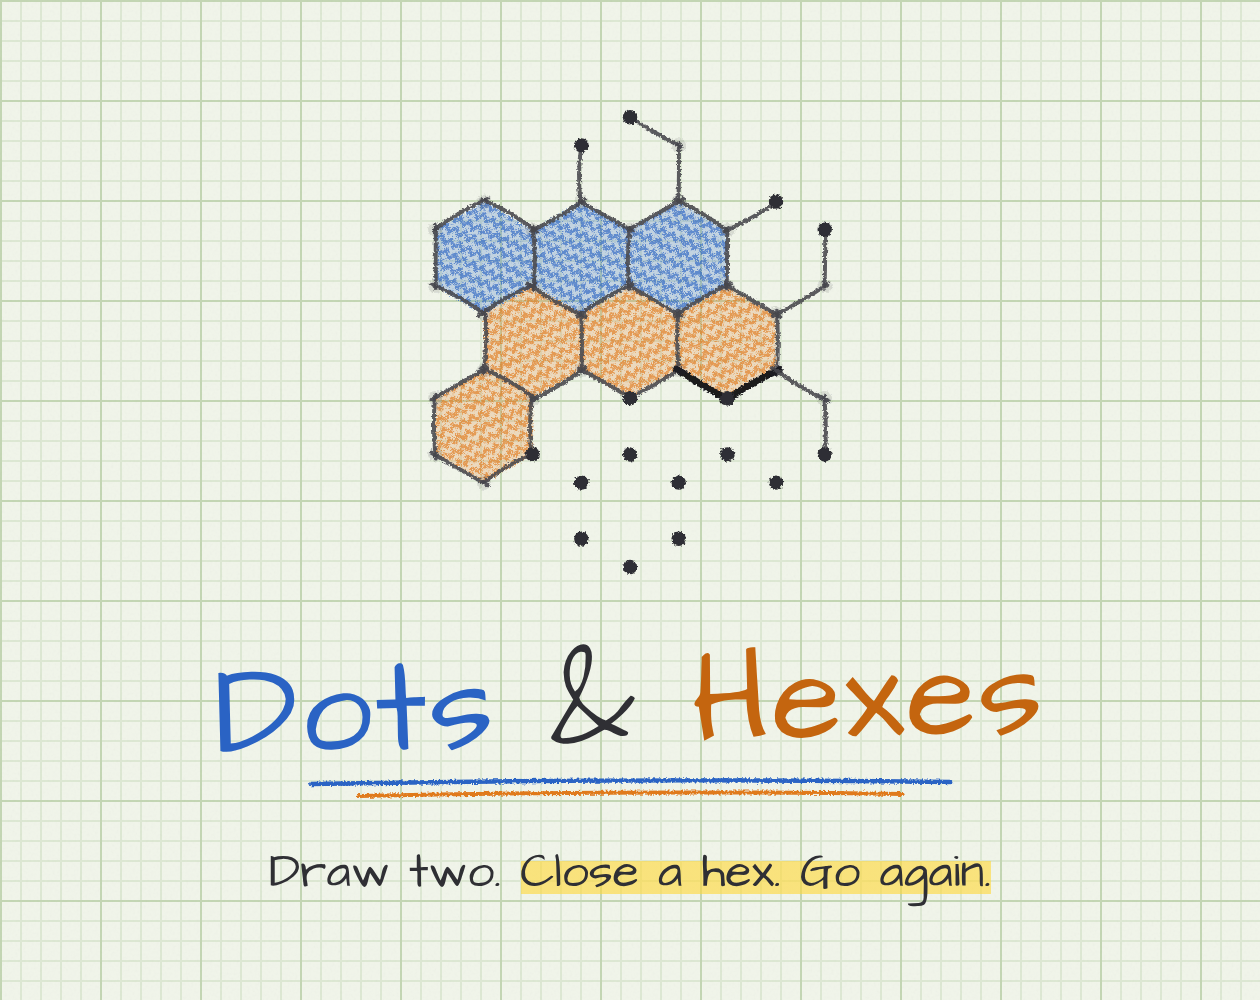
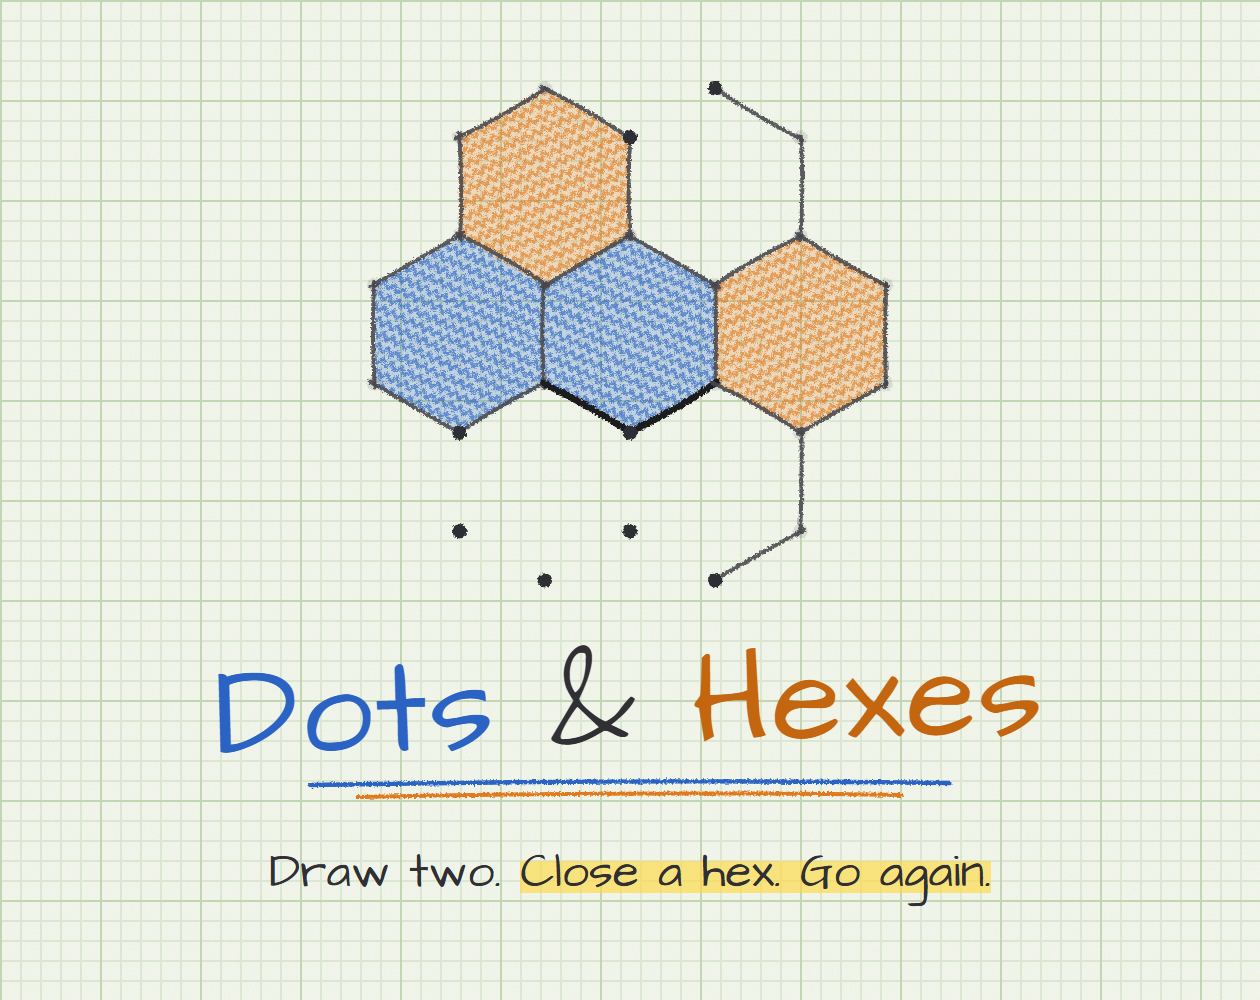
.

diff --git a/itch/Cover.html b/itch/Cover.html
@@ -8,7 +8,7 @@
 	     #embed  640×360  Embed BG: itch's placeholder for "Click to launch in fullscreen", shown at actual size
 	                      behind the Run game button, so the middle stays clear
 	     #embed-preview   the same, with a stand-in Run game button to check the layout
-	     The board is a seeded game stopped mid-way (GAME below); cover-gif.mjs plays it out with drawFrame. -->
+	     The board is a seeded game stopped mid-way (each layout's game below); cover-gif.mjs plays it out with drawFrame. -->
 		<link rel="stylesheet" href="common.css" />
 		<style>
 			.board {
@@ -47,20 +47,22 @@
 		<script type="module">
 			import { addDefs, drawBoard, playGame } from './board.js';
 
-			// board: its left/top and width in px; title and tagline centered on titleX; stacked: the tagline in two lines
+			// board: its left/top and width in px; title and tagline centered on titleX; stacked: the tagline in two lines;
+			// game: its size, seed, and how many moves in (the cover's is the 7-hex board, which reads at 630×500)
 			const LAYOUTS = {
 				cover: {
 					W: 630,
 					H: 500,
-					BX: 205,
-					BY: 46,
-					BW: 220,
+					BX: 165,
+					BY: 22,
+					BW: 300,
 					titleX: 315,
 					titleTop: 318,
 					titleSize: 64,
 					lineW: 340,
 					taglineTop: 418,
-					taglineSize: 24
+					taglineSize: 24,
+					game: { size: 7, seed: 38, moves: 12 }
 				},
 				embed: {
 					W: 640,
@@ -74,16 +76,17 @@
 					lineW: 170,
 					taglineTop: 231,
 					taglineSize: 19,
-					stacked: true
+					stacked: true,
+					game: { size: 13, seed: 2, moves: 20 }
 				}
 			};
 
-			// the game on the board: size, seed, and how many moves in (?size=&seed=&moves= override, for trying others)
-			const q = new URLSearchParams(location.search);
-			const GAME = { size: +(q.get('size') ?? 13), seed: +(q.get('seed') ?? 2), moves: +(q.get('moves') ?? 20) };
-
 			const hash = location.hash.slice(1);
 			const L = LAYOUTS[hash.split('-')[0]] ?? LAYOUTS.cover;
+
+			// the layout's game (?size=&seed=&moves= override, for trying others)
+			const q = new URLSearchParams(location.search);
+			const GAME = { size: +(q.get('size') ?? L.game.size), seed: +(q.get('seed') ?? L.game.seed), moves: +(q.get('moves') ?? L.game.moves) };
 			Object.assign(document.body.style, { width: L.W + 'px', height: L.H + 'px' });
 			addDefs();
 
